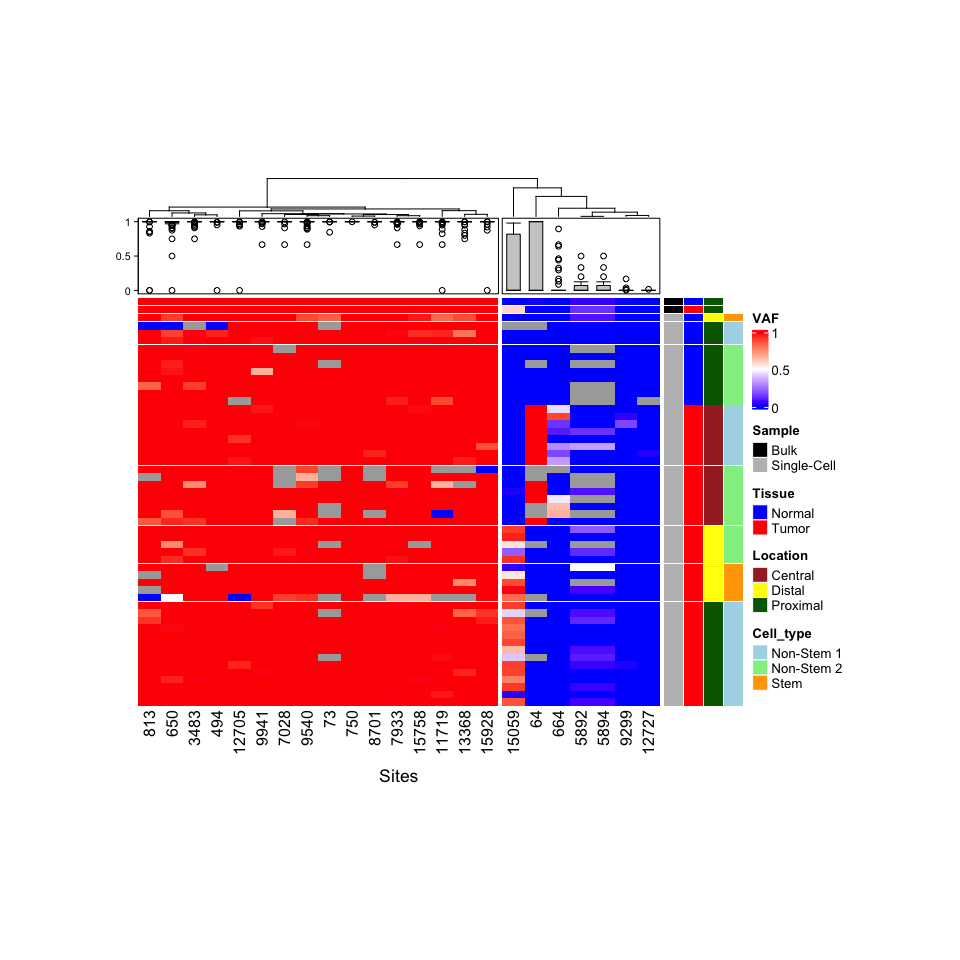
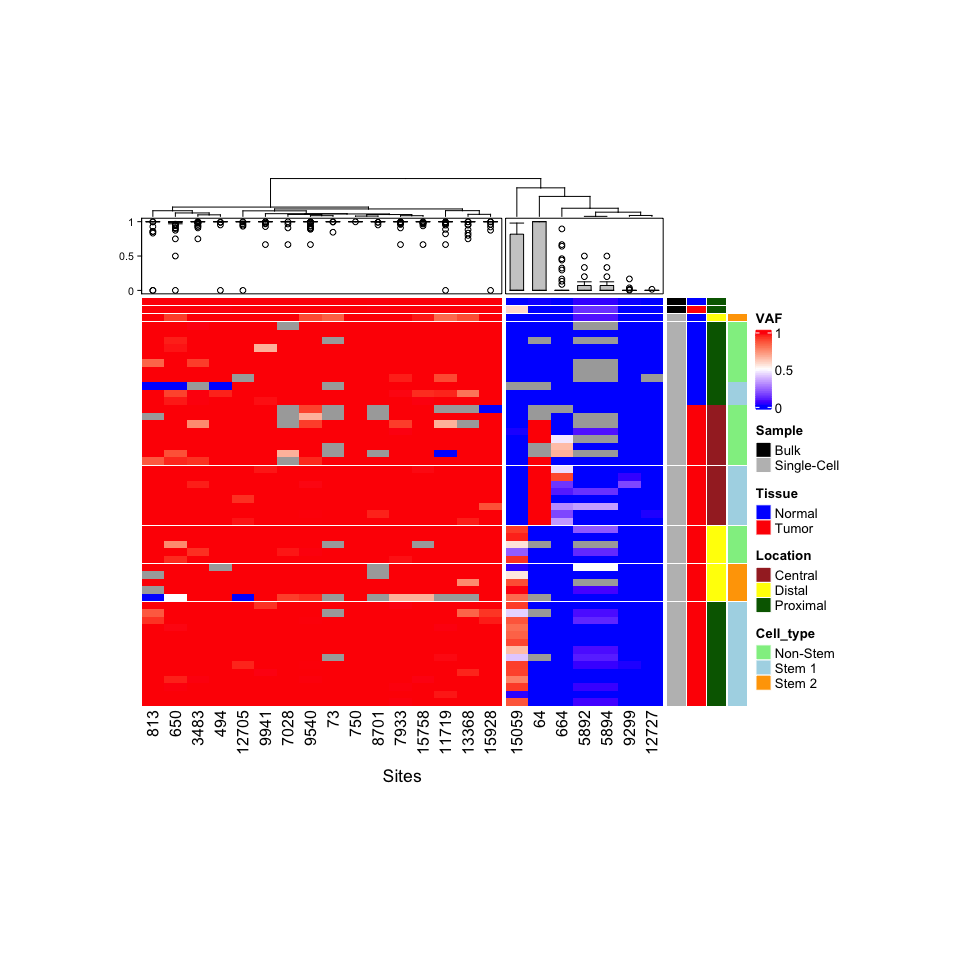
Modify labesls and colors in CRC08

Changed region(s): [[0.125, 0.1875, 0.875, 0.8125], [0.375, 0.5938, 0.4062, 0.625], [0.375, 0.5312, 0.4062, 0.5625]]

diff --git a/reports/CRC08.md b/reports/CRC08.md
@@ -24,7 +24,7 @@ popdata <- read.table(here::here("data/CRC08_group_FIXED_noLgr5.list"), h=T, sep
 color_anno = list( Sample = c("Bulk"="black", "Single-Cell"="grey"), #Change as needed
                    Tissue = c("Tumor"="red", "Normal"="blue"),
                    Location = c("Central"="brown", "Middle"="brown", "Distal"="yellow", "Proximal"="darkgreen"),
-                   Cell_type = c("Non-Stem 1"="lightblue", "Non-Stem 2"="lightgreen", "Stem"="orange", "ND"="white")
+                   Cell_type = c("Stem 1"="lightblue", "Non-Stem"="lightgreen", "Stem 2"="orange", "ND"="white")
 )
 
 ha1 <- rowAnnotation(df = popdata[,-1], col = color_anno, show_annotation_name = F, na_col = "white")
@@ -77,7 +77,7 @@ tab_pvalues
     ## # A tibble: 3 x 2
     ##   Group               p_values
     ##   <chr>                  <dbl>
-    ## 1 Tissue                 0.387
+    ## 1 Tissue                 0.440
     ## 2 Region by Tissue       0    
     ## 3 Cell type by Tissue   NA
 
@@ -107,16 +107,16 @@ for (i in 1:(ntt-1) ){
         }
 ```
 
-    ## Normal_Distal  -  Normal_Proximal :  -1.326    (P= 0.8345 )  
-    ## Normal_Distal  -  Tumor_Central :  0.5235      (P= 0.1719 )  
-    ## Normal_Distal  -  Tumor_Distal :  -0.2276      (P= 0.2734 )  
-    ## Normal_Distal  -  Tumor_Proximal :  0.8687     (P= 0.06659 )  
+    ## Normal_Distal  -  Normal_Proximal :  -1.326    (P= 0.8369 )  
+    ## Normal_Distal  -  Tumor_Central :  0.5235      (P= 0.1733 )  
+    ## Normal_Distal  -  Tumor_Distal :  -0.2276      (P= 0.2704 )  
+    ## Normal_Distal  -  Tumor_Proximal :  0.8687     (P= 0.06579 )  
     ## Normal_Proximal  -  Tumor_Central :  0.488     (P<0.0001)  
-    ## Normal_Proximal  -  Tumor_Distal :  0.1745     (P= 0.07109 )  
-    ## Normal_Proximal  -  Tumor_Proximal :  0.1551       (P= 0.0112 )  
+    ## Normal_Proximal  -  Tumor_Distal :  0.1745     (P= 0.06949 )  
+    ## Normal_Proximal  -  Tumor_Proximal :  0.1551       (P= 0.009799 )  
     ## Tumor_Central  -  Tumor_Distal :  0.7199       (P<0.0001)  
     ## Tumor_Central  -  Tumor_Proximal :  0.8724     (P<0.0001)  
-    ## Tumor_Distal  -  Tumor_Proximal :  -0.0822     (P= 0.6475 )
+    ## Tumor_Distal  -  Tumor_Proximal :  -0.0822     (P= 0.6468 )
 
 ## Tissue/Type
 
@@ -142,21 +142,21 @@ for (i in 1:(ntt-1) ){
         }
 ```
 
-    ## Normal_Non-Stem 1  -  Normal_Non-Stem 2 :  0.5588      (P= 0.006399 )  
-    ## Normal_Non-Stem 1  -  Normal_Stem :  -0.8479       (P= 0.5022 )  
-    ## Normal_Non-Stem 1  -  Tumor_Non-Stem 1 :  0.4108       (P= 0.0429 )  
-    ## Normal_Non-Stem 1  -  Tumor_Non-Stem 2 :  0.4934       (P= 0.05879 )  
-    ## Normal_Non-Stem 1  -  Tumor_Stem :  -0.04954       (P= 0.5269 )  
-    ## Normal_Non-Stem 2  -  Normal_Stem :  0.6364    (P= 0.2208 )  
-    ## Normal_Non-Stem 2  -  Tumor_Non-Stem 1 :  0.02612      (P= 0.2748 )  
-    ## Normal_Non-Stem 2  -  Tumor_Non-Stem 2 :  -0.07854     (P= 0.7109 )  
-    ## Normal_Non-Stem 2  -  Tumor_Stem :  0.4775     (P= 0.0206 )  
-    ## Normal_Stem  -  Tumor_Non-Stem 1 :  -0.595     (P= 0.8683 )  
-    ## Normal_Stem  -  Tumor_Non-Stem 2 :  -1.218     (P= 0.8583 )  
-    ## Normal_Stem  -  Tumor_Stem :  -0.4173      (P= 0.4978 )  
-    ## Tumor_Non-Stem 1  -  Tumor_Non-Stem 2 :  0.03102       (P= 0.2253 )  
-    ## Tumor_Non-Stem 1  -  Tumor_Stem :  0.3284      (P= 0.0388 )  
-    ## Tumor_Non-Stem 2  -  Tumor_Stem :  0.4394      (P= 0.0178 )
+    ## Normal_Non-Stem  -  Normal_Stem 1 :  0.5588    (P= 0.0048 )  
+    ## Normal_Non-Stem  -  Normal_Stem 2 :  0.6364    (P= 0.2231 )  
+    ## Normal_Non-Stem  -  Tumor_Non-Stem :  -0.07854     (P= 0.7119 )  
+    ## Normal_Non-Stem  -  Tumor_Stem 1 :  0.02612    (P= 0.2783 )  
+    ## Normal_Non-Stem  -  Tumor_Stem 2 :  0.4775     (P= 0.0211 )  
+    ## Normal_Stem 1  -  Normal_Stem 2 :  -0.8479     (P= 0.5019 )  
+    ## Normal_Stem 1  -  Tumor_Non-Stem :  0.4934     (P= 0.06419 )  
+    ## Normal_Stem 1  -  Tumor_Stem 1 :  0.4108       (P= 0.0475 )  
+    ## Normal_Stem 1  -  Tumor_Stem 2 :  -0.04954     (P= 0.5392 )  
+    ## Normal_Stem 2  -  Tumor_Non-Stem :  -1.218     (P= 0.8563 )  
+    ## Normal_Stem 2  -  Tumor_Stem 1 :  -0.595       (P= 0.8714 )  
+    ## Normal_Stem 2  -  Tumor_Stem 2 :  -0.4173      (P= 0.5009 )  
+    ## Tumor_Non-Stem  -  Tumor_Stem 1 :  0.03102     (P= 0.2271 )  
+    ## Tumor_Non-Stem  -  Tumor_Stem 2 :  0.4394      (P= 0.0156 )  
+    ## Tumor_Stem 1  -  Tumor_Stem 2 :  0.3284    (P= 0.0407 )
 
 # Copy Number (fastmitocalc):
 
@@ -255,10 +255,9 @@ pca$li %>%
     scale_color_manual(values=c("lightgreen", "orange","blue")) #Change as needed
 ```
 
-    ## Too few points to calculate an ellipse
-
     ## Warning in MASS::cov.trob(data[, vars]): Probable convergence failure
 
+    ## Too few points to calculate an ellipse
     ## Too few points to calculate an ellipse
 
     ## Warning: Removed 2 row(s) containing missing values (geom_path).
